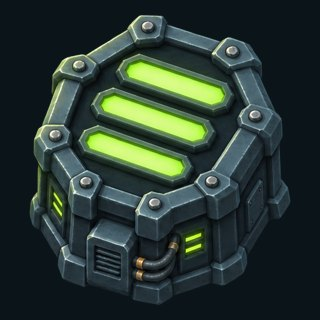
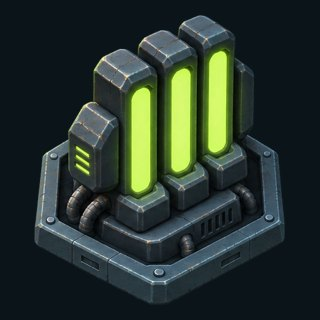
Install hexagonal map art
Structures sit on pointy-top hexagonal plates that fill their tile, and the lander is a seven-hexagon hull on its footprint. Vent, spitter, lode and the briefing illustrations are redrawn to match the brown ground. The style guide and the prompt of every image describe the hexagon map.

The title image and the terrain materials are unchanged.

diff --git a/app/src/render/world.ts b/app/src/render/world.ts
@@ -40,20 +40,20 @@ const at = (game: Game, i: number): { x: number; y: number } => {
 };
 
 /**
- * How large an atlas sprite is drawn, in tiles across its cell. The atlas pieces are square and nearly fill
- * their cells, so a structure is shrunk until its corners stay inside its hexagon, and the lander until it
- * sits inside its flower of seven; the natural features may spill over.
+ * How large an atlas sprite is drawn, in tiles across its cell. The atlas tool fits each piece's longer side
+ * to 120 of a 128 px cell (376 of 384 for the lander). A structure is a pointy-top hexagonal plate, so its
+ * 120 px are the corner-to-corner height: 1.18 × 120/128 = 1.106 tiles of the hexagon's 1.155 (96 %), and its
+ * width (0.86 of the height) 0.95 of the tile, a margin of about 0.05 tile all round. The lander is the
+ * seven-hexagon flower, its 376 px the 3-tile width: 0.99 × 376/128 = 2.91 tiles across and 2.79 of the
+ * flower's 2.89 high, the same margin. The natural features may spill over.
  */
 const FIT: Partial<Record<SpriteKind, number>> = {
-  lander: 0.82,
-  pylon: 0.95,
-  pump: 0.9,
-  cap: 0.9,
+  lander: 0.99,
   vent: 1.5,
   spitter: 1.7,
-  lode: 1.0,
+  lode: 1.1,
 };
-const DEFAULT_FIT = 0.8;
+const DEFAULT_FIT = 1.18;
 
 /** Milliseconds between silt repaints while it shimmers. */
 const SHIMMER_MS = 80;

diff --git a/art/direction.md b/art/direction.md
@@ -10,66 +10,82 @@ its code-drawn art when one is missing.
 ## Map sprites (section Sprites)
 
 Cut into `structures.png` / `structures.json` and `features.png` / `features.json` at 128 px per tile.
+Every machine stands on a pointy-top hexagonal plate that is its footprint (see the map geometry in
+[style.md](style.md)); the lander's hull is the seven-hexagon flower of its footprint.
 
-**S1 Lander** (`lander`, 3x3 tiles)
+**S1 Lander** (`lander`, its tile and the six around it)
 
 ```text
 Canvas: SQUARE 1024x1024 px, one object only, one cell.
-The lander: the crew's landing craft and the root of the power grid, seen from straight above. A
-heavy, squat, square hull with broadly chamfered corners, about 800 px wide and 800 px high (about 4/5
-of the canvas), centred. Four short, thick landing legs reach out diagonally from the four corners and
-end in round footpads. In the centre a large hexagonal reactor hatch with a bright cyan (#5fe3ff)
-glowing core, about 1/4 of the hull width. Around it large flat hull plates with a few wide panel lines,
-four small cyan marker lights, one dish antenna on the upper right plate. Dark gunmetal hull, steel-blue
-rims. The whole craft is one bold, symmetric shape that reads when shrunk to 72 px.
+The lander: the crew's landing craft and the root of the power grid, seen from straight above. Its hull
+outline is exactly seven pointy-top hexagons packed edge to edge like a flower: one central hexagon and
+six around it. The middle row is three hexagons side by side, the top row two hexagons and the bottom
+row two hexagons, each shifted half a hexagon so they nest into the gaps. Every hexagon has a corner
+pointing straight up and a corner pointing straight down, with vertical flat left and right sides, so the
+whole outline is scalloped (zigzag) on top and bottom and stepped on the sides. The hull is about 880 px
+wide and 850 px high (about 6/7 of the canvas), centred, with a transparent margin on every side.
+Each hexagon is one thick armoured hull module with a raised steel-blue rim; deep dark seams between the
+modules make the seven hexagons clearly readable. The central module holds a large round reactor hatch
+with a bright cyan (#5fe3ff) glowing core. The upper-right module carries one dish antenna; each of the
+other five outer modules carries one small cyan marker light near its outer edge. No legs, no feet and
+nothing else reaches outside the seven-hexagon outline. Dark gunmetal hull, steel-blue rims. The whole
+craft is one bold, symmetric shape that reads when shrunk to 72 px.
 ```
 
 **S2 Structures A** (`pylon`, `trunk`, `tap`, `cell`, `pump`, `cap`)
 
 ```text
 Canvas: LANDSCAPE 1536x1024 px, a grid of 3 columns and 2 rows, six cells of 512x512 px, one machine
-per cell, each machine about 380 px across (about 3/4 of its cell) unless a size is given.
-Row 1, left: PYLON. A small power relay post seen from above: a diamond-shaped (square turned 45
-degrees) footplate with four short struts to its corners and a round cyan (#5fe3ff) glowing node in the
-centre. Smaller than the others: about 300 px across.
-Row 1, middle: TRUNK. A heavy long-range relay hub: a thick regular hexagonal housing with a wide cyan
-glowing ring on top and a small cyan node in the middle of the ring.
-Row 1, right: TAP. A mining clamp that sits on an energy deposit: a square frame with four chunky
-corner claws pointing inward and a large amber (#ffc857) glowing diamond-shaped bore in the centre.
-Row 2, left: CELL. An energy storage bank: a square base plate with rounded corners carrying three
-thick parallel horizontal capacitor bars that glow amber, evenly spaced.
-Row 2, middle: PUMP. A skimmer pump: a round turbine housing with a thick amber glowing outer ring, six
-broad dark fan blades inside and a small amber hub.
+per cell.
+Every machine stands on its own base plate shaped as a REGULAR pointy-top hexagon with all six sides the
+same length (a corner at the top and at the bottom, vertical flat sides left and right): about 400 px
+tall from corner to corner and 346 px wide from flat side to flat side, so its width is 0.87 of its
+height (the plate is about 4/5 of the cell height). All six plates the same size and orientation, each
+centred in its cell. The plate is dark gunmetal (#14222a) with a thick steel-blue (#33505c) rim along
+all six edges; the machine sits on top of it and stays inside it.
+Row 1, left: PYLON. A light power relay post: the plate is an open hexagonal frame with three thick
+struts running from three alternate corners to a round cyan (#5fe3ff) glowing node in the centre.
+Row 1, middle: TRUNK. A heavy long-range relay hub: a thick raised housing carrying a wide cyan glowing
+ring and a small cyan node in the middle of the ring.
+Row 1, right: TAP. A mining clamp that sits on an energy deposit: four chunky claws pointing inward
+from the upper-left, upper-right, lower-left and lower-right around a large amber (#ffc857) glowing
+diamond-shaped bore in the centre.
+Row 2, left: CELL. An energy storage bank: three thick parallel horizontal capacitor bars that glow
+amber, evenly spaced, the middle bar the longest.
+Row 2, middle: PUMP. A skimmer pump: a round turbine housing with a thick amber glowing outer ring,
+exactly six broad dark fan blades inside and a small amber hub.
 Row 2, right: CAP. A vent seal: a large, heavy, perfectly round pressure lid in pale ceramic white
-(#f4f7f8) with a dark round centre plate and four big bolted clamps at the diagonals. About 440 px
-across.
+(#f4f7f8), nearly as wide as the plate, with a dark round centre plate and four big bolted clamps.
 Every machine: dark gunmetal body, steel-blue rim, only its one accent colour glowing.
 ```
 
 **S3 Structures B** (`lance`, `lobber`, `baffle`, `interceptor`, `grader`)
 
-Attachment: the picked S2 sheet, to lock the rendering style ("match its rendering style, materials, edge
-thickness and level of detail exactly; do not copy any of its machines").
+Attachment: the picked S2 sheet, to lock the rendering style and the plates ("Image 1 is the first sheet
+of the same set: match its rendering style, materials, plate shape, plate size, rim thickness and level
+of detail exactly; do not copy any of its machines.").
 
 ```text
 Canvas: LANDSCAPE 1536x1024 px, a grid of 3 columns and 2 rows, six cells of 512x512 px, one machine
-per cell, each machine about 380 px across (about 3/4 of its cell). The cell in row 2, right stays
-completely empty and transparent.
+per cell. The cell in row 2, right stays completely empty and transparent.
+Every machine stands on its own base plate shaped as a REGULAR pointy-top hexagon with all six sides the
+same length (a corner at the top and at the bottom, vertical flat sides left and right): about 400 px
+tall from corner to corner and 346 px wide from flat side to flat side, so its width is 0.87 of its
+height (the plate is about 4/5 of the cell height). All five plates the same size and orientation, each
+centred in its cell. The plate is dark gunmetal (#14222a) with a thick steel-blue (#33505c) rim along
+all six edges; the machine sits on top of it and stays inside it.
 The weapons can turn in the game, so none of them has a barrel or nose pointing in any direction: each
 is rotationally symmetric when seen from above.
-Row 1, left: LANCE. A beam emitter turret: a square base plate with rounded corners carrying a bold
-three-sided (triangular) emitter crown of three prongs around a round orange (#ff7a45) glowing lens.
-Row 1, middle: LOBBER. A heavy mortar seen straight down its muzzle: a square base plate carrying a
-very thick round barrel ring with a deep dark bore and an orange glowing charge at the bottom of the
-bore.
-Row 1, right: BAFFLE. A field projector: a regular octagonal housing with three thick parallel
-horizontal emitter slats on top glowing lime green (#b6f36b).
-Row 2, left: INTERCEPTOR. A point-defence station: a square base plate carrying an X-shaped mount of
-four diagonal arms, each arm ending in a small orange launch tube, and a bright yellow (#fff27a) round
-sensor dome in the centre.
-Row 2, middle: GRADER. A ground-shaping station: a square base plate carrying a broad lime green
-(#b6f36b) glowing chevron (an upward-pointing angle bracket) above a thick lime light bar along the
-lower edge.
+Row 1, left: LANCE. A beam emitter turret: a bold three-sided (triangular) emitter crown of three
+prongs around a round orange (#ff7a45) glowing lens.
+Row 1, middle: LOBBER. A heavy mortar seen straight down its muzzle: a very thick round barrel ring
+with a deep dark bore and an orange glowing charge at the bottom of the bore.
+Row 1, right: BAFFLE. A field projector: three thick parallel vertical emitter slats glowing lime green
+(#b6f36b), side by side in the middle of the plate.
+Row 2, left: INTERCEPTOR. A point-defence station: an X-shaped mount of four diagonal arms, each arm
+ending in a small orange launch tube, and a bright yellow (#fff27a) round sensor dome in the centre.
+Row 2, middle: GRADER. A ground-shaping station: a broad lime green (#b6f36b) glowing chevron (an
+upward-pointing angle bracket) above a thick horizontal lime light bar in the lower half of the plate.
 Every machine: dark gunmetal body, steel-blue rim, only its one accent colour glowing.
 ```
 
@@ -78,16 +94,18 @@ Every machine: dark gunmetal body, steel-blue rim, only its one accent colour gl
 ```text
 Canvas: LANDSCAPE 1536x1024 px, three objects side by side in one row, each centred in its own third of
 the canvas (cells of 512 px width), each about 400 px across, vertically centred.
-These are natural features of the world, not machines; ignore the machine materials above.
+These are natural features of the world, not machines; ignore the machine materials and the hexagonal
+base plates above. They lie on dark earthy brown ground.
 Left: VENT. A wound in the ground from which silt wells up: a round crater mouth with a ragged, cracked
-rim of dark teal-grey rock and a bright magenta (#ff3fa4) glowing molten pool filling its centre, hot
-pink at the very middle. Roughly circular outline with a broken rock edge.
+rim of dark earthy brown rock (#3d2c20, lighter edges #7a5a3c) and a bright magenta (#ff3fa4) glowing
+molten pool filling its centre, hot pink at the very middle. Roughly circular outline with a broken rock
+edge.
 Middle: SPITTER. A hostile growth that hurls silt: a dark purple-black (#2a0f24) crusted mound shaped
 like a star with five thick blunt spines, ribbed like hardened lava, with a round magenta glowing maw in
 the centre and thin magenta glowing cracks running out along the spines.
 Right: LODE. An energy deposit: a tight cluster of seven to nine chunky amber (#ffc857) glowing crystals
-of different sizes growing out of a small flat patch of dark rock; overall diamond-shaped (rhombic)
-outline.
+of different sizes growing out of a small flat patch of dark brown rock; the patch and the cluster
+together have a roughly hexagonal outline with a corner at the top and at the bottom, taller than wide.
 ```
 
 ## Terrain materials (section Terrain)
@@ -134,27 +152,33 @@ detail: empty room for a title to be placed later. Do not paint any title, text 
 
 ## Briefing illustrations (section Illustration)
 
-Cut to 320 px JPEGs on `#0b1418` as `illustrations/<kind>.jpg`.
+Cut to 320 px JPEGs on `#0b1418` as `illustrations/<kind>.jpg`. The objects of I3 came out larger
+than their thirds and were cut apart by hand at the gaps between them before cutting each one.
 
-Attachments for all three: the picked top-down sheets of the same objects ("keep each object's design,
-shapes and accent colour so it is recognisable as the same object; do not copy the top-down view or the
-sheet layout").
+Attachments for all three: the picked top-down sheets of the same objects, numbered in the order named
+("keep each object's design, shapes, hexagonal base and accent colour so it is recognisable as the same
+object; do not copy the top-down view or the sheet layout"): S2 and S3 for I1; S2, S3 and F1 for I2;
+S1 and F1 for I3. I2 and I3 also attach the picked I1 sheet last ("the first illustration sheet of the
+same set: match its view angle, rendering and level of detail; do not copy its machines"; for I2 also
+"and its six-sided base plinths").
 
 **I1 Illustrations A** (`pylon`, `tap`, `lance`, `cell`, `lobber`, `pump`)
 
 ```text
 Canvas: LANDSCAPE 1536x1024 px, a grid of 3 columns and 2 rows, six cells of 512x512 px, one machine
 per cell, each machine about 400 px across (about 3/4 of its cell).
-Row 1, left: PYLON. A slim power relay mast on a diamond-shaped footplate with four struts and a
-glowing cyan (#5fe3ff) node on top.
-Row 1, middle: TAP. A mining clamp: a low square frame with four chunky claws gripping downward around
-an amber (#ffc857) glowing bore.
-Row 1, right: LANCE. A beam emitter turret: a square base with a short turret carrying three emitter
-prongs around an orange (#ff7a45) glowing lens.
-Row 2, left: CELL. An energy storage bank: a square base carrying three thick horizontal capacitor
-cylinders glowing amber.
-Row 2, middle: LOBBER. A heavy mortar: a square base with a short, very thick barrel pointing steeply
-upward, orange glow inside the muzzle.
+Every machine stands on a low, thick six-sided (hexagonal) base plinth of dark gunmetal with steel-blue
+edges, the same shape and size for all six; no square bases.
+Row 1, left: PYLON. A slim power relay post: an open hexagonal frame as its base, three thick struts
+rising from three alternate corners of the frame to a glowing cyan (#5fe3ff) node on top.
+Row 1, middle: TAP. A mining clamp: four chunky claws gripping downward around an amber (#ffc857)
+glowing diamond-shaped bore in the middle of the hexagonal base.
+Row 1, right: LANCE. A beam emitter turret: a short turret carrying a crown of three emitter prongs
+around an orange (#ff7a45) glowing lens that faces straight up.
+Row 2, left: CELL. An energy storage bank: three thick horizontal capacitor cylinders glowing amber,
+lying side by side on the base, the middle one the longest.
+Row 2, middle: LOBBER. A heavy mortar: a short, very thick barrel pointing straight up, orange glow
+inside the muzzle.
 Row 2, right: PUMP. A skimmer pump: a low round turbine housing with an amber glowing ring, fan blades
 inside and a short intake skirt.
 ```
@@ -164,30 +188,38 @@ inside and a short intake skirt.
 ```text
 Canvas: LANDSCAPE 1536x1024 px, a grid of 3 columns and 2 rows, six cells of 512x512 px, one object per
 cell, each about 400 px across (about 3/4 of its cell).
+Each of the five machines stands on a low, thick six-sided (hexagonal) base plinth of dark gunmetal with
+steel-blue edges, the same shape and size for all five; no square or octagonal bases.
+The bases are six-sided, exactly like the hexagonal base plinths of the machines in Image 4.
 Row 1, left: TRUNK. A heavy long-range relay hub: a thick hexagonal tower with a wide cyan (#5fe3ff)
 glowing ring on top.
-Row 1, middle: BAFFLE. A field projector: an octagonal housing with three thick emitter slats glowing
-lime green (#b6f36b).
-Row 1, right: INTERCEPTOR. A point-defence station: a square base carrying an X-shaped mount with four
-small orange (#ff7a45) launch tubes and a yellow sensor dome in the centre.
-Row 2, left: GRADER. A ground-shaping station: a square base with a lime green glowing chevron emitter
-and a lime light bar.
+Row 1, middle: BAFFLE. A field projector: three thick upright emitter slats standing side by side like
+fins, glowing lime green (#b6f36b).
+Row 1, right: INTERCEPTOR. A point-defence station: an X-shaped mount with four small orange (#ff7a45)
+launch tubes pointing up and a yellow (#fff27a) sensor dome in the centre.
+Row 2, left: GRADER. A ground-shaping station: a lime green glowing chevron emitter above a lime light
+bar.
 Row 2, middle: CAP. A vent seal: a large, heavy round pressure lid in pale ceramic white (#f4f7f8) with
-four big bolted clamps.
-Row 2, right: SPITTER. Not a machine: a hostile growth, a dark purple-black crusted mound with five
-thick blunt spines and a magenta (#ff3fa4) glowing maw at the top, magenta glowing cracks.
+four big bolted clamps, sitting on its hexagonal base.
+Row 2, right: SPITTER. Not a machine and no base: a hostile growth, a dark purple-black crusted mound
+with five thick blunt spines and a magenta (#ff3fa4) glowing maw at the top, magenta glowing cracks.
 ```
 
 **I3 Illustrations C** (`lander`, `vent`, `lode`)
 
 ```text
 Canvas: LANDSCAPE 1536x1024 px, three objects side by side in one row, each centred in its own third of
-the canvas (cells of 512 px width), each about 420 px across, vertically centred.
-Left: LANDER. The crew's landing craft: a heavy, squat, square hull with chamfered corners on four
-short thick legs with round footpads, a hexagonal reactor hatch with a cyan (#5fe3ff) glowing core on
-top, small cyan marker lights, one dish antenna.
-Middle: VENT. Not a machine: a wound in the ground, a low crater of ragged, cracked dark teal-grey rock
-with a bright magenta (#ff3fa4) glowing molten pool welling up in its mouth.
+the canvas (cells of 512 px width), each about 380 px across (about 3/4 of its third), vertically
+centred, with a clear transparent gap between neighbours; nothing crosses into the next third.
+The lander is seen from the same three-quarter view as the other objects, about 35 degrees down, so
+that two of its side walls are clearly visible below the top.
+Left: LANDER. The crew's landing craft: a low, wide, heavy hull built from seven hexagonal modules
+packed together like a flower (one central module and six around it), each module a thick armoured
+block with steel-blue rims and deep seams between them. On top of the central module a round reactor
+hatch with a cyan (#5fe3ff) glowing core; one dish antenna on an outer module; small cyan marker
+lights. Short, stubby landing feet tucked under the hull.
+Middle: VENT. Not a machine: a wound in the ground, a low crater of ragged, cracked dark earthy brown
+rock with a bright magenta (#ff3fa4) glowing molten pool welling up in its mouth.
 Right: LODE. Not a machine: a cluster of chunky amber (#ffc857) glowing crystals of different sizes
-growing out of a small patch of dark rock.
+growing out of a small hexagonal patch of dark brown rock.
 ```

diff --git a/art/style.md b/art/style.md
@@ -11,20 +11,30 @@ A full prompt is the **Preamble** block, a blank line, the block of one section 
 | Role | Colour | Used for |
 | --- | --- | --- |
 | Background | `#070d10` | space behind the map, page background |
-| Plate | `#14222a`, rim `#33505c` | machine hulls and base plates |
+| Plate | `#14222a`, rim `#33505c` | machine hulls and hexagonal base plates |
 | Grid cyan | `#5fe3ff` | lander, pylon, trunk, links |
 | Energy amber | `#ffc857` | tap, cell, pump, lodes, energy packets |
 | Weapon orange | `#ff7a45` | lance, lobber, interceptor |
 | Utility lime | `#b6f36b` | baffle, grader |
 | Cap white | `#f4f7f8` | cap |
 | Silt magenta | `#ff3fa4` | silt, vents, spitters |
-| Ground | `#13222b` low, `#2a4749`, `#5a7861`, `#b9c096` high | height bands, tinted in the terrain bake |
+| Ground | `#1c1611` low, `#3d2c20`, `#7a5a3c`, `#c9a878` high | earthy brown height bands, tinted in the terrain bake |
+
+## Map geometry
+
+The map is a grid of pointy-top hexagons: a corner points up and a corner points down, the left and right
+sides are vertical and flat. In units where neighbouring tile centres are 1 apart, a tile is 1 wide (flat
+side to flat side) and 2/√3 ≈ 1.155 tall (corner to corner); rows are √3/2 apart and every second row is
+shifted half a tile. Every machine stands on a pointy-top hexagonal base plate that is its whole
+footprint, so it fills its tile. The lander covers its tile and the six around it: a flower of seven
+hexagons, 3 tiles wide and about 2.89 tiles tall, with a scalloped outline (two hexagons on the top and
+bottom rows, three in the middle row). The natural features (vents, spitters, lodes) have no plate.
 
 ## Preamble
 
 ```text
 Art for "Ebbline", an original science-fiction strategy game. A survey crew has landed on a dead colony
-world of dark teal-grey rock, where a glowing magenta fluid called silt wells up from vents and floods
+world of dark earthy brown rock, where a glowing magenta fluid called silt wells up from vents and floods
 the lowlands. The crew's machines are hard-surface survey and mining equipment: compact, functional,
 slightly worn, built from dark gunmetal plates (#14222a) with lighter steel-blue rims and edges
 (#33505c), a few bolts and panel lines, and exactly one glowing accent colour per machine.
@@ -45,8 +55,15 @@ lower-right edges darker.
 Each piece is shown at 24 pixels in the game, so it must read as an icon: one bold, simple silhouette,
 a few large shapes, thick clear edges, strong contrast between the dark hull and the glowing accent.
 No fine detail, no thin wires, no small greebles, no texture noise.
-Background: fully transparent (alpha zero) everywhere outside the objects. No ground plate, no floor,
-no halo, no glow spilling outside the object, no checkerboard, no cast shadow, no grid lines, no labels.
+The map is made of hexagonal tiles in POINTY-TOP orientation. Every machine is built on a base plate
+shaped as a regular hexagon in that orientation: one corner points straight up, one corner points
+straight down, and the left and right sides are vertical straight edges. The plate is taller than wide
+(width : height = 87 : 100). Never a flat-top hexagon with a flat edge on top, never a square, octagon
+or circle as the footprint. All plates on a sheet have the same orientation and the same size, and
+every part of a machine stays on its plate.
+Background: fully transparent (alpha zero) everywhere outside the objects. No ground patch and no
+floor around them (a machine's hexagonal base plate is part of the machine), no halo, no glow
+spilling outside the object, no checkerboard, no cast shadow, no grid lines, no labels.
 Each object sits centred in its own cell with a clear transparent margin on every side; objects never
 touch or overlap a neighbouring cell.
 ```
@@ -61,7 +78,7 @@ Flat overcast light with no light direction, whatever the style notes above say:
 highlights from one side, no gradient across the image, no vignette.
 Even coverage: the same density of detail everywhere, no single large feature, no focal point, nothing
 that would be recognised when the image repeats every few tiles.
-Neutral mid-grey tones with only a slight cool teal tint; the game multiplies its own colours in.
+Neutral mid-grey tones with no colour tint; the game multiplies its own colours in.
 Opaque, no transparency, no objects, no machines, no fluid, no plants.
 ```
 
